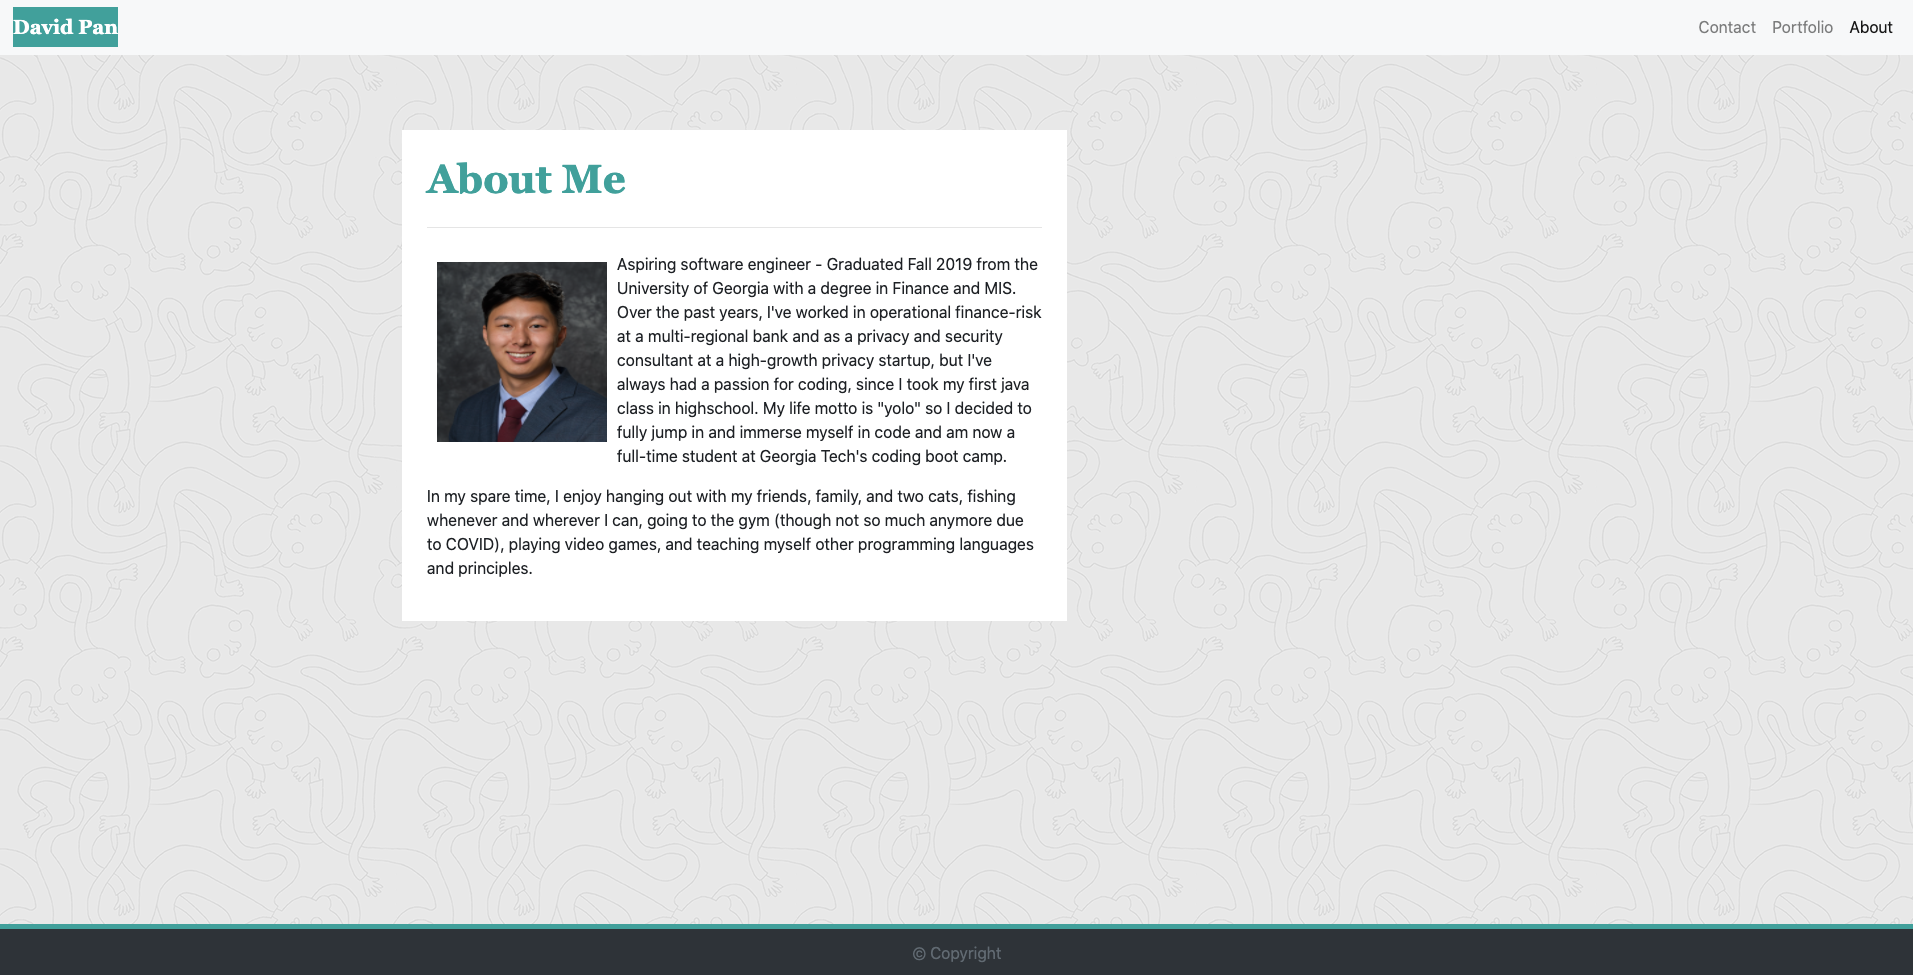
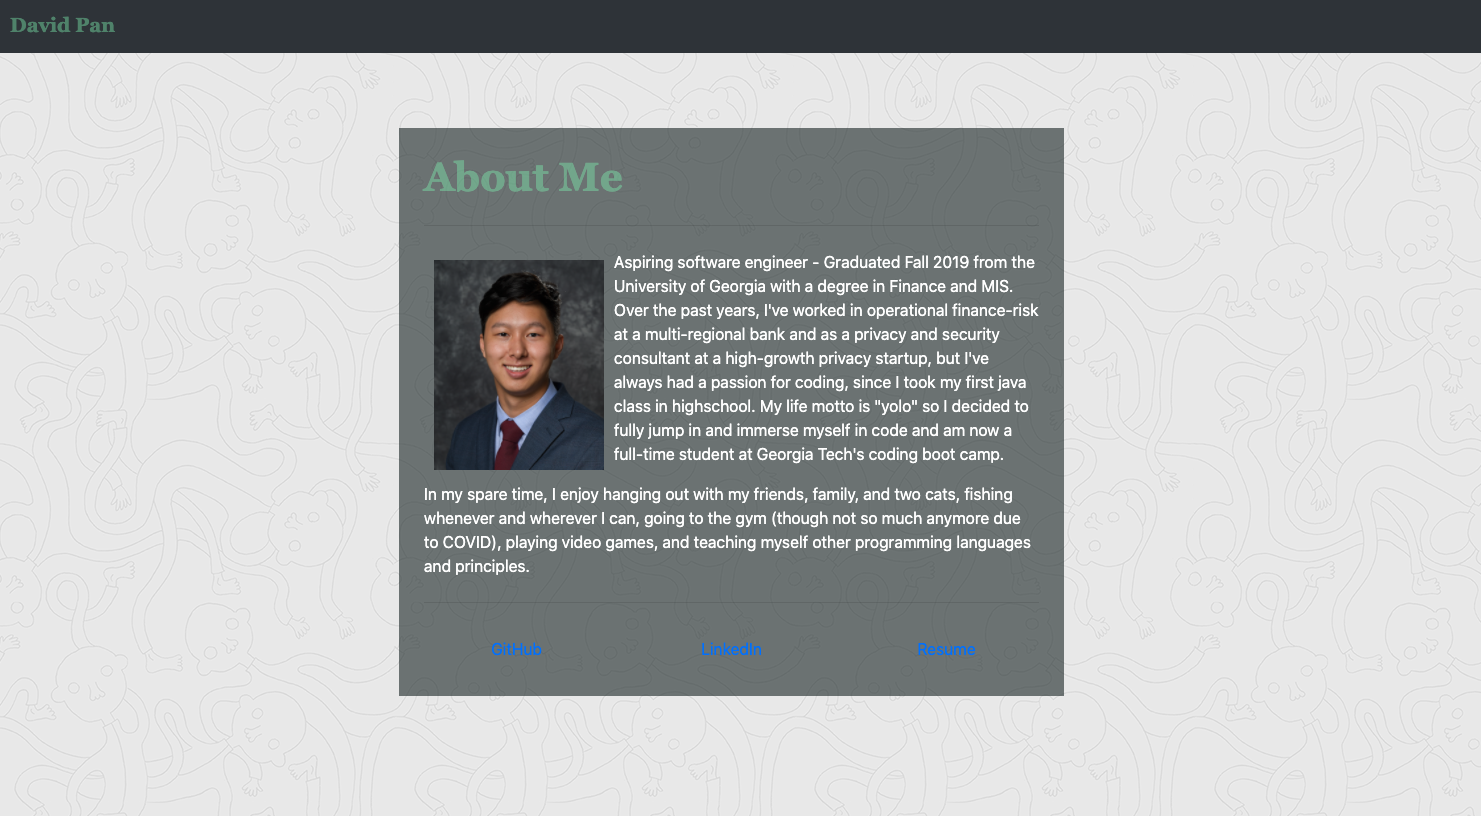
finalized README

diff --git a/README.md b/README.md
@@ -1,1 +1,39 @@
-# hw-07-updated-portfolio
+# Responsive Portfolio Updated
+
+## Description 
+
+Updated portfolio page with additional styling and content, including:
+- Portfolio of past projects
+- Links to socials (GitHub, LinkedIn)
+- Link to Resume
+
+## My Portfolio
+![Image of Screenshot](./assets/images/portfolio_image.png)
+
+## Github Pages Link
+
+You can view the deployed site at https://dpan-5.github.io/hw-07-updated-portfolio/
+
+## License
+
+MIT License
+
+Copyright (c) 2020 David Pan
+
+Permission is hereby granted, free of charge, to any person obtaining a copy
+of this software and associated documentation files (the "Software"), to deal
+in the Software without restriction, including without limitation the rights
+to use, copy, modify, merge, publish, distribute, sublicense, and/or sell
+copies of the Software, and to permit persons to whom the Software is
+furnished to do so, subject to the following conditions:
+
+The above copyright notice and this permission notice shall be included in all
+copies or substantial portions of the Software.
+
+THE SOFTWARE IS PROVIDED "AS IS", WITHOUT WARRANTY OF ANY KIND, EXPRESS OR
+IMPLIED, INCLUDING BUT NOT LIMITED TO THE WARRANTIES OF MERCHANTABILITY,
+FITNESS FOR A PARTICULAR PURPOSE AND NONINFRINGEMENT. IN NO EVENT SHALL THE
+AUTHORS OR COPYRIGHT HOLDERS BE LIABLE FOR ANY CLAIM, DAMAGES OR OTHER
+LIABILITY, WHETHER IN AN ACTION OF CONTRACT, TORT OR OTHERWISE, ARISING FROM,
+OUT OF OR IN CONNECTION WITH THE SOFTWARE OR THE USE OR OTHER DEALINGS IN THE
+SOFTWARE.
